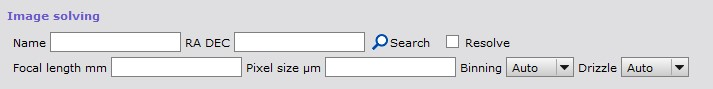
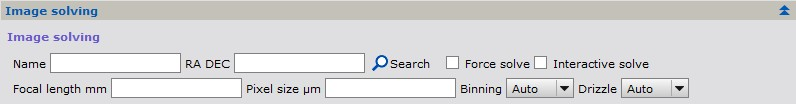
SPCC tip for warm colors on dusty targets, updated color calibration and SPCC images

diff --git a/ruuth.xyz/ai/AutoIntegrateProcessing.html b/ruuth.xyz/ai/AutoIntegrateProcessing.html
@@ -392,6 +392,11 @@ If you know your filters or camera sensor, select them to get more accurate colo
 Curves are read from the PixInsight filters database. If the database is not found, a built-in copy of the curves is used.
 The filter set and QE curve are also used with SpectrophotometricFluxCalibration before MultiscaleGradientCorrection.
 </p>
+<p>
+SPCC calibrates colors against star catalog data and keeps the real colors of the target. Targets near the Milky Way
+with a lot of dust can look warm or yellow because interstellar dust makes the starlight redder. To neutralize the overall color,
+set <i>When to run color calibration</i> to <i>nonlinear</i>. Then ColorCalibration is run on the stretched image after SPCC.
+</p>
 
 <a href="ai_spcc_config.jpg"><img src="ai_spcc_config.jpg"></a>  
 
